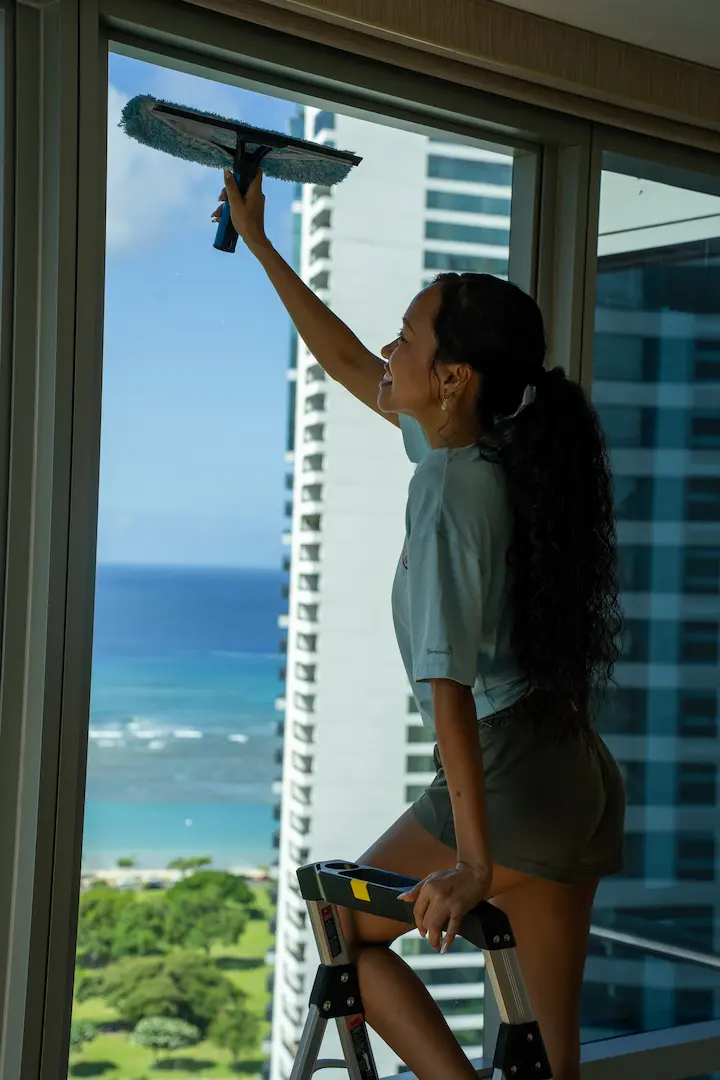
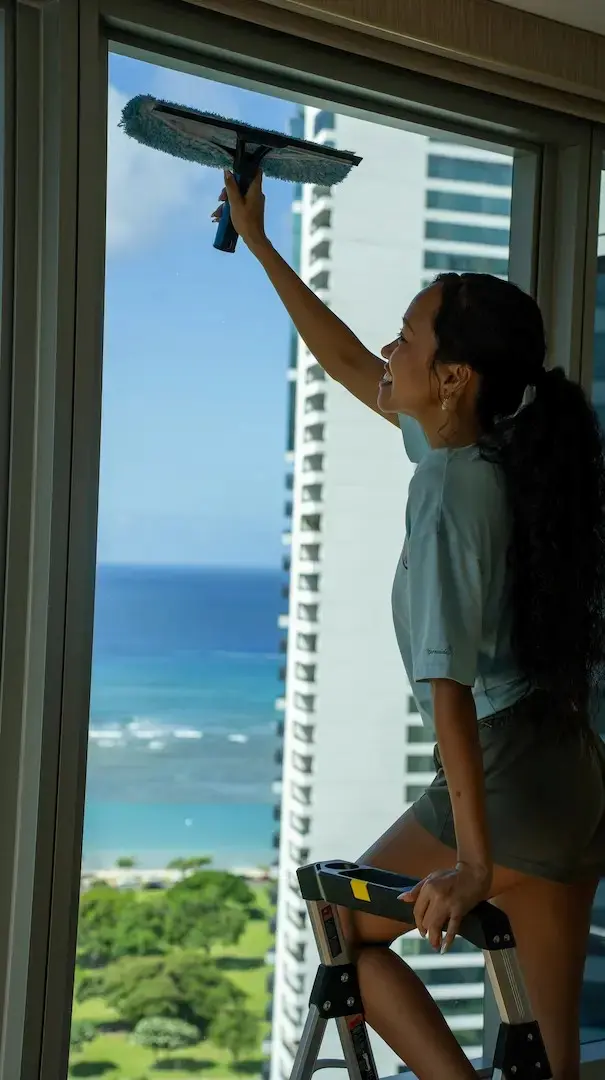
image adjustments

diff --git a/src/services/move-out-cleaning/index.html b/src/services/move-out-cleaning/index.html
@@ -137,7 +137,7 @@
                 <div class="mil-video-background mil-delay-load">
                     <video class="mil-scale-img-top" data-value-1="1" data-value-2="1.3" autoplay="autoplay" loop="loop"
                         muted="" playsinline="" oncontextmenu="return false;" preload="auto"
-                        poster="/assets/img/hero-poster-desktop.webp">
+                        poster="/assets/img/hero-poster-desktop.webp" style="object-position: 45% center;">
                         <!-- <source src="/assets/img/hero-video-desktop.mp4"> -->
                     </video>
                 </div>
@@ -194,15 +194,14 @@
                                                 transform="rotate(-135 22.8125 67.2046)" fill="#F6D62D" />
                                         </svg>
                                     </div>
-                                    <p class="mil-fs-32 mil-mb-60 mil-mt-60 mil-lh-160 mil-m-3">Professional move out
-                                        cleaning service across Honolulu and Oahu. We deep clean apartments, condos, and
+                                    <p class="mil-fs-32 mil-mb-60 mil-mt-60 mil-lh-160 mil-m-3">We deep clean apartments, condos, and
                                         houses to meet landlord inspection standards and help tenants secure their full
                                         security deposit.
                                     </p>
                                 </div>
                             </div>
                             <!-- Contact Form -->
-                            <div class="col-lg-6 mil-mb-f">
+                            <div class="col-lg-6 mil-mb-f" style="opacity: 0.8;">
                                 <div class="row mil-jce">
                                     <div class="col-lg-10 mil-relative">
                                         <div class="mil-hero-form-frame mil-bg-m-5 mil-br-lg mil-scale-img-top mil-sm-anim-none"
@@ -277,15 +276,6 @@
                     <div class="swiper-wrapper">
                         <div class="swiper-slide">
                             <div class="mil-team-card">
-                                <img src="/assets/img/gal1.webp" alt="Team member">
-                                <div class="mil-descr">
-                                    <h5 class="mil-fs-20 mil-m-4 mil-mb-15">Licensed and Insured</h5>
-                                    <p class="mil-m-2 mil-up-text">Trusted</p>
-                                </div>
-                            </div>
-                        </div>
-                        <div class="swiper-slide">
-                            <div class="mil-team-card">
                                 <img src="/assets/img/gal2.webp" alt="Team member">
                                 <div class="mil-descr">
                                     <h5 class="mil-fs-20 mil-m-4 mil-mb-15">Trimming & Baseboard</h5>
@@ -295,10 +285,10 @@
                         </div>
                         <div class="swiper-slide">
                             <div class="mil-team-card">
-                                <img src="/assets/img/gal3.webp" alt="Team member">
+                                <img src="/assets/img/gal1.webp" alt="Team member">
                                 <div class="mil-descr">
-                                    <h5 class="mil-fs-20 mil-m-4 mil-mb-15">Appliances</h5>
-                                    <p class="mil-m-2 mil-up-text">Included</p>
+                                    <h5 class="mil-fs-20 mil-m-4 mil-mb-15">Licensed and Insured</h5>
+                                    <p class="mil-m-2 mil-up-text">Trusted</p>
                                 </div>
                             </div>
                         </div>
@@ -356,6 +346,15 @@
                                 </div>
                             </div>
                         </div>
+                        <div class="swiper-slide">
+                            <div class="mil-team-card">
+                                <img src="/assets/img/gal3.webp" alt="Team member">
+                                <div class="mil-descr">
+                                    <h5 class="mil-fs-20 mil-m-4 mil-mb-15">Appliances</h5>
+                                    <p class="mil-m-2 mil-up-text">Included</p>
+                                </div>
+                            </div>
+                        </div>
                     </div>
                 </div>
             </div>
@@ -378,7 +377,7 @@
             <div class="mil-p-f-15" id="pricing">
                 <div class="container">
                     <div class="mil-section-title mil-mb-f mil-up">
-                        <h2 class="mil-fs-36">Move Out Cleaning Prices in Honolulu & Oahu</h2>
+                        <h2 class="mil-fs-36">Move Out Cleaning Prices in <br>Honolulu & Oahu</h2>
                         <div class="mil-dots"></div>
                         <b class="mil-fs-24">01</b>
                     </div>
@@ -444,7 +443,7 @@
             <!-- landlord/tenant beneifits -->
             <div class="container">
                 <div class="mil-section-title mil-mb-f mil-up">
-                    <h2 class="mil-fs-36">Move Out Cleaning for Tenants and Landlords in Oahu</h2>
+                    <h2 class="mil-fs-36">Move Out Cleaning for <br>Tenants and Landlords in Oahu</h2>
                     <div class="mil-dots"></div>
                     <b class="mil-fs-24">02</b>
                 </div>
@@ -482,7 +481,7 @@
             <!-- whats included -->
             <div class="container mil-p-ff">
                 <div class="mil-section-title mil-mb-f mil-up">
-                    <h2 class="mil-fs-36">What’s Included in Our Move Out Cleaning in Oahu</h2>
+                    <h2 class="mil-fs-36">What’s Included in Our <br>Move Out Cleaning in Oahu</h2>
                     <div class="mil-dots"></div>
                     <b class="mil-fs-24">03</b>
                 </div>
@@ -704,7 +703,7 @@
             <!-- service area -->
             <div class="container mil-p-ff">
                 <div class="mil-section-title mil-mb-f mil-up">
-                    <h2 class="mil-fs-36">Move Out Cleaning Services Across Honolulu and Oahu</h2>
+                    <h2 class="mil-fs-36">Move Out Cleaning Services <br>Across Honolulu and Oahu</h2>
                     <div class="mil-dots"></div>
                     <b class="mil-fs-24">05</b>
                 </div>

diff --git a/src/index.html b/src/index.html
@@ -180,7 +180,7 @@
                 <div class="mil-video-background mil-delay-load hero-mobile">
                     <video class="mil-scale-img-top" data-value-1="1" data-value-2="1.3" autoplay="autoplay" loop="loop"
                         muted="" playsinline="" oncontextmenu="return false;" preload="auto"
-                        poster="/assets/img/web13.webp">
+                        poster="/assets/img/web13.webp" style="object-position: 75% center;">
                         <source src="/assets/img/hero-video-mobile.mp4">
                     </video>
                 </div>
@@ -240,9 +240,7 @@
                                     <p class="mil-fs-32 mil-mb-60 mil-mt-60 mil-lh-160 mil-m-3">MoveOut Deep Cleaners
                                         provides professional house
                                         cleaning services in Honolulu and across Oahu.
-                                        Our team specializes in deep house cleaning, move-out cleaning, move-in
-                                        cleaning, carpet cleaning,
-                                        and detailed home cleaning for apartments, condos, and houses.
+
                                     </p>
                                     <div class="mil-buttons-frame">
                                         <div class="mil-circle-text-position"
@@ -273,7 +271,7 @@
                                 </div>
                             </div>
                             <!-- Contact Form -->
-                            <div class="col-lg-6 mil-mb-f">
+                            <div class="col-lg-6 mil-mb-f" style="opacity:.85;">
                                 <div class="row mil-jce">
                                     <div class="col-lg-10 mil-relative">
                                         <div class="mil-hero-form-frame mil-bg-m-5 mil-br-lg mil-scale-img-top mil-sm-anim-none"
@@ -395,13 +393,11 @@
                         <div class="mil-dots"></div>
                         <b class="mil-fs-24">01</b>
                     </div>
-                    <p class="mil-fs-22 mil-lh-160 mil-up mil-mb-30">A clean home is not only more comfortable, it also
-                        creates a healthier living environment. However, keeping a house consistently clean—especially a
-                        large home—can require significant time and effort. MoveOut Deep Cleaners provides professional
-                        house cleaning services in Honolulu and across Oahu, helping homeowners maintain spotless living
-                        spaces without the stress. Whether you need deep cleaning, move-out cleaning, or routine home
-                        cleaning, our experienced team delivers detailed residential cleaning for apartments, condos,
-                        and houses. Spend less time cleaning and more time enjoying your home while our professional
+                    <p class="mil-fs-22 mil-lh-160 mil-up mil-mb-30">
+                        Our team specializes in deep house cleaning, move-out cleaning, move-in
+                        cleaning, carpet cleaning,
+                        and detailed home cleaning for apartments, condos, and houses.
+                        Let our professional
                         cleaners handle the work.
                     </p>
                     <div class="mil-service-card-long mil-mb-15">
@@ -419,9 +415,8 @@
                             </div>
                             <div class="col-lg-4 mil-mb-15 mil-up">
                                 <div class="mil-img-frame">
-                                    <img src="/assets/img/web1.webp"
-                                        alt="Clean house after move-out cleaning service" class="mil-scale-img"
-                                        data-value-1="1.15" data-value-2="1">
+                                    <img src="/assets/img/web1.webp" alt="Clean house after move-out cleaning service"
+                                        class="mil-scale-img" data-value-1="1.15" data-value-2="1">
                                 </div>
                             </div>
                             <div class="col-lg-4 mil-mb-15 mil-up">
@@ -647,14 +642,12 @@
             <div class="mil-p-0-15 mil-relative">
                 <div class="container">
                     <div class="mil-section-title mil-mb-f mil-up">
-                        <h2 class="mil-fs-36">Why Choose MoveOut Deep Cleaners</h2>
+                        <h2 class="mil-fs-36">Why Choose <br class="">MoveOut Deep Cleaners</h2>
                         <div class="mil-dots"></div>
                         <b class="mil-fs-24">03</b>
                     </div>
-                    <p class="mil-fs-22 mil-lh-160 mil-up mil-mb-30">Life can get busy, and keeping your home
-                        consistently clean isn’t always easy. MoveOut Deep Cleaners provides professional house cleaning
-                        services in Honolulu and across Oahu, helping homeowners enjoy a spotless living space without
-                        sacrificing their time. Our residential cleaning services are designed to make life easier by
+                    <p class="mil-fs-22 mil-lh-160 mil-up mil-mb-30">Our residential cleaning services are designed to
+                        make life easier by
                         delivering reliable, high-quality cleaning you can trust. From detailed room-by-room cleaning to
                         thorough deep cleaning, our experienced team ensures every surface, corner, and space is
                         carefully cleaned so your home looks and feels its best.
@@ -735,7 +728,7 @@
             <!-- service area -->
             <div class="container">
                 <div class="mil-section-title mil-mb-f mil-up">
-                    <h2 class="mil-fs-36">House Cleaning Services Across Oahu</h2>
+                    <h2 class="mil-fs-36">House Cleaning Services <br>Across Oahu</h2>
                     <div class="mil-dots"></div>
                     <b class="mil-fs-24">04</b>
                 </div>
